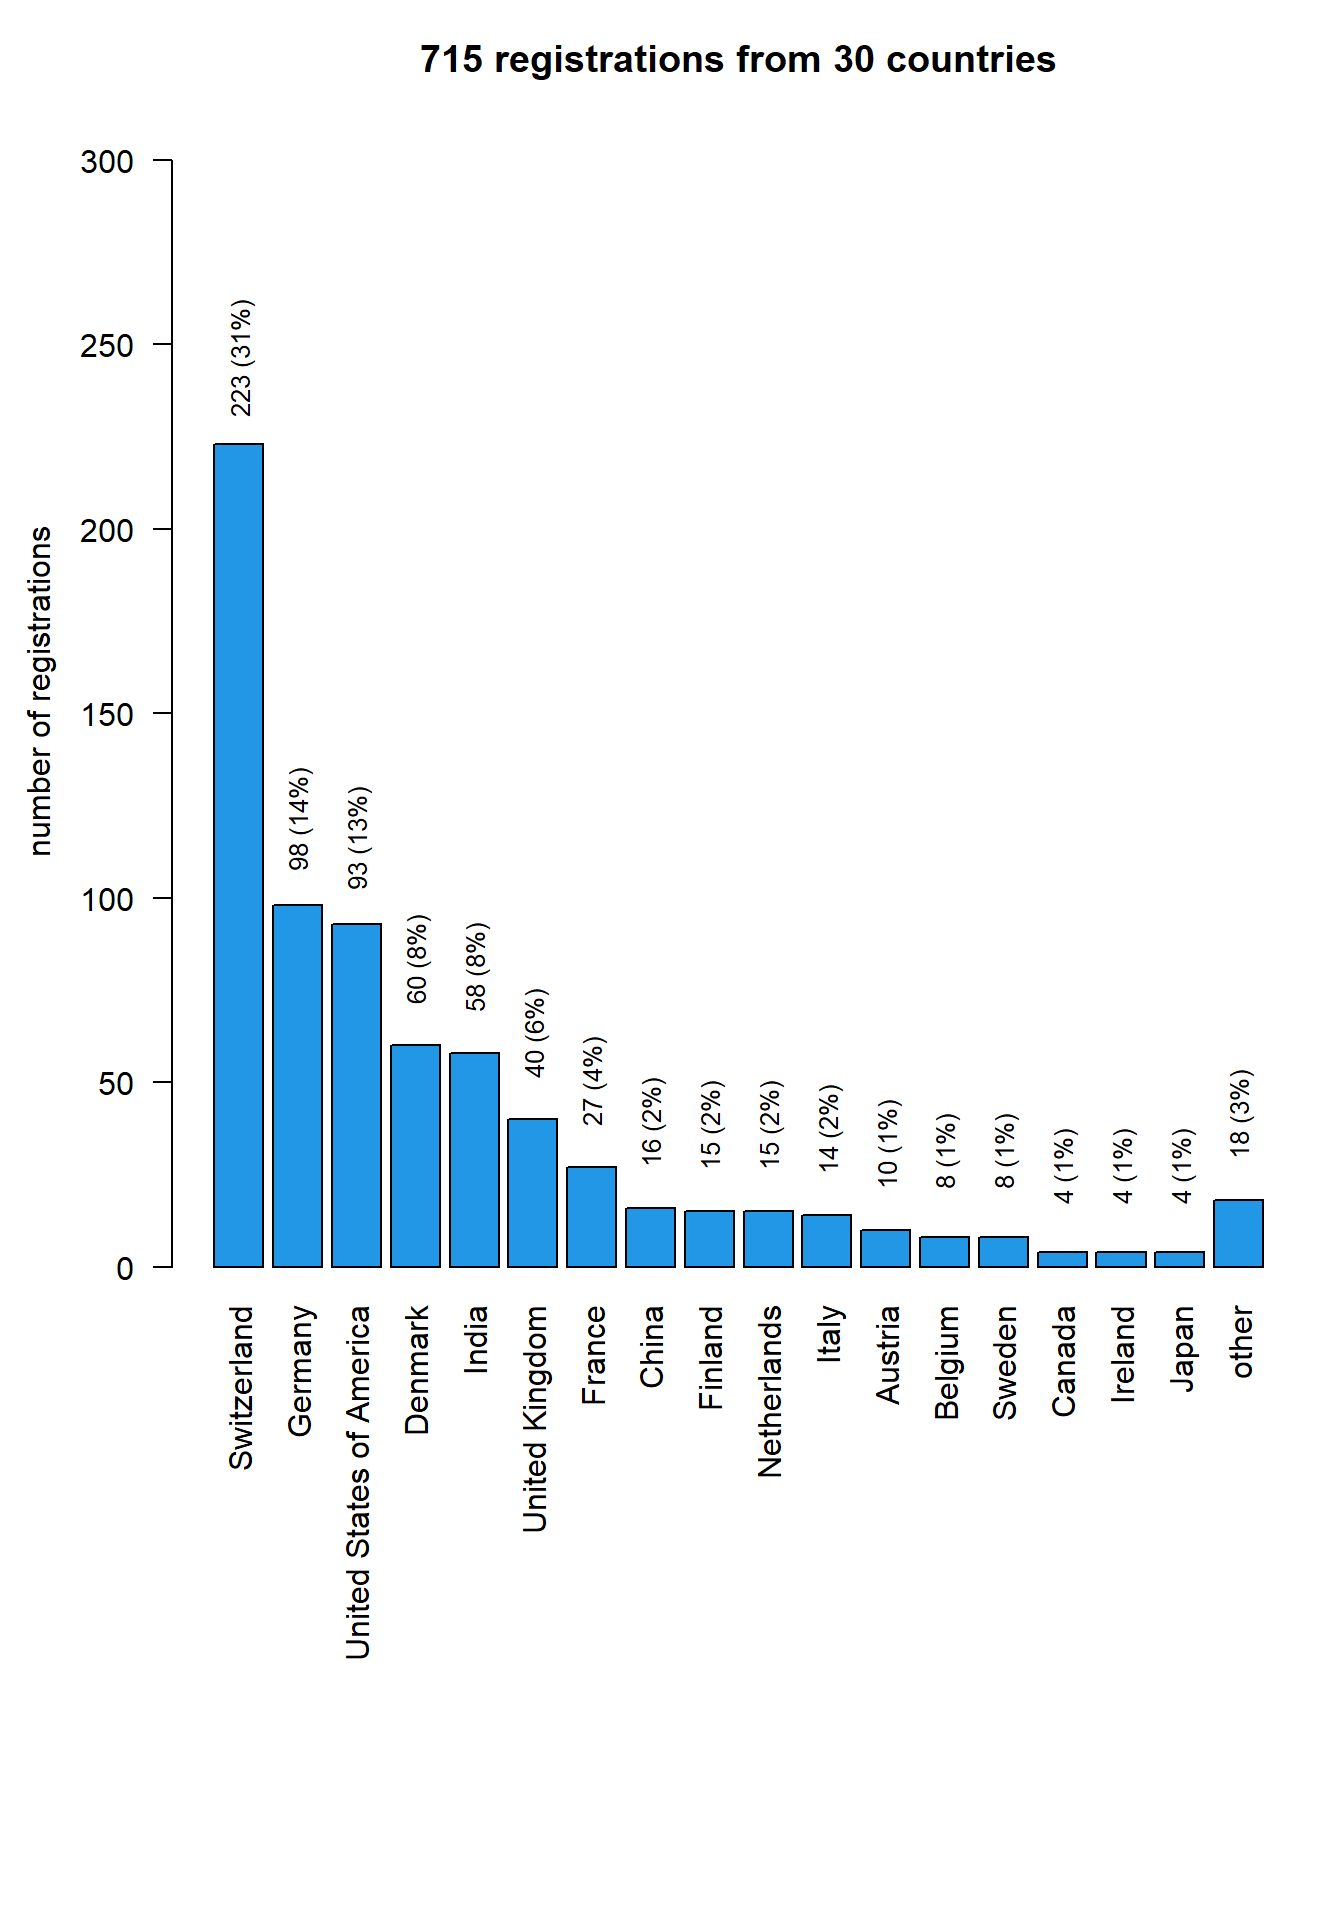
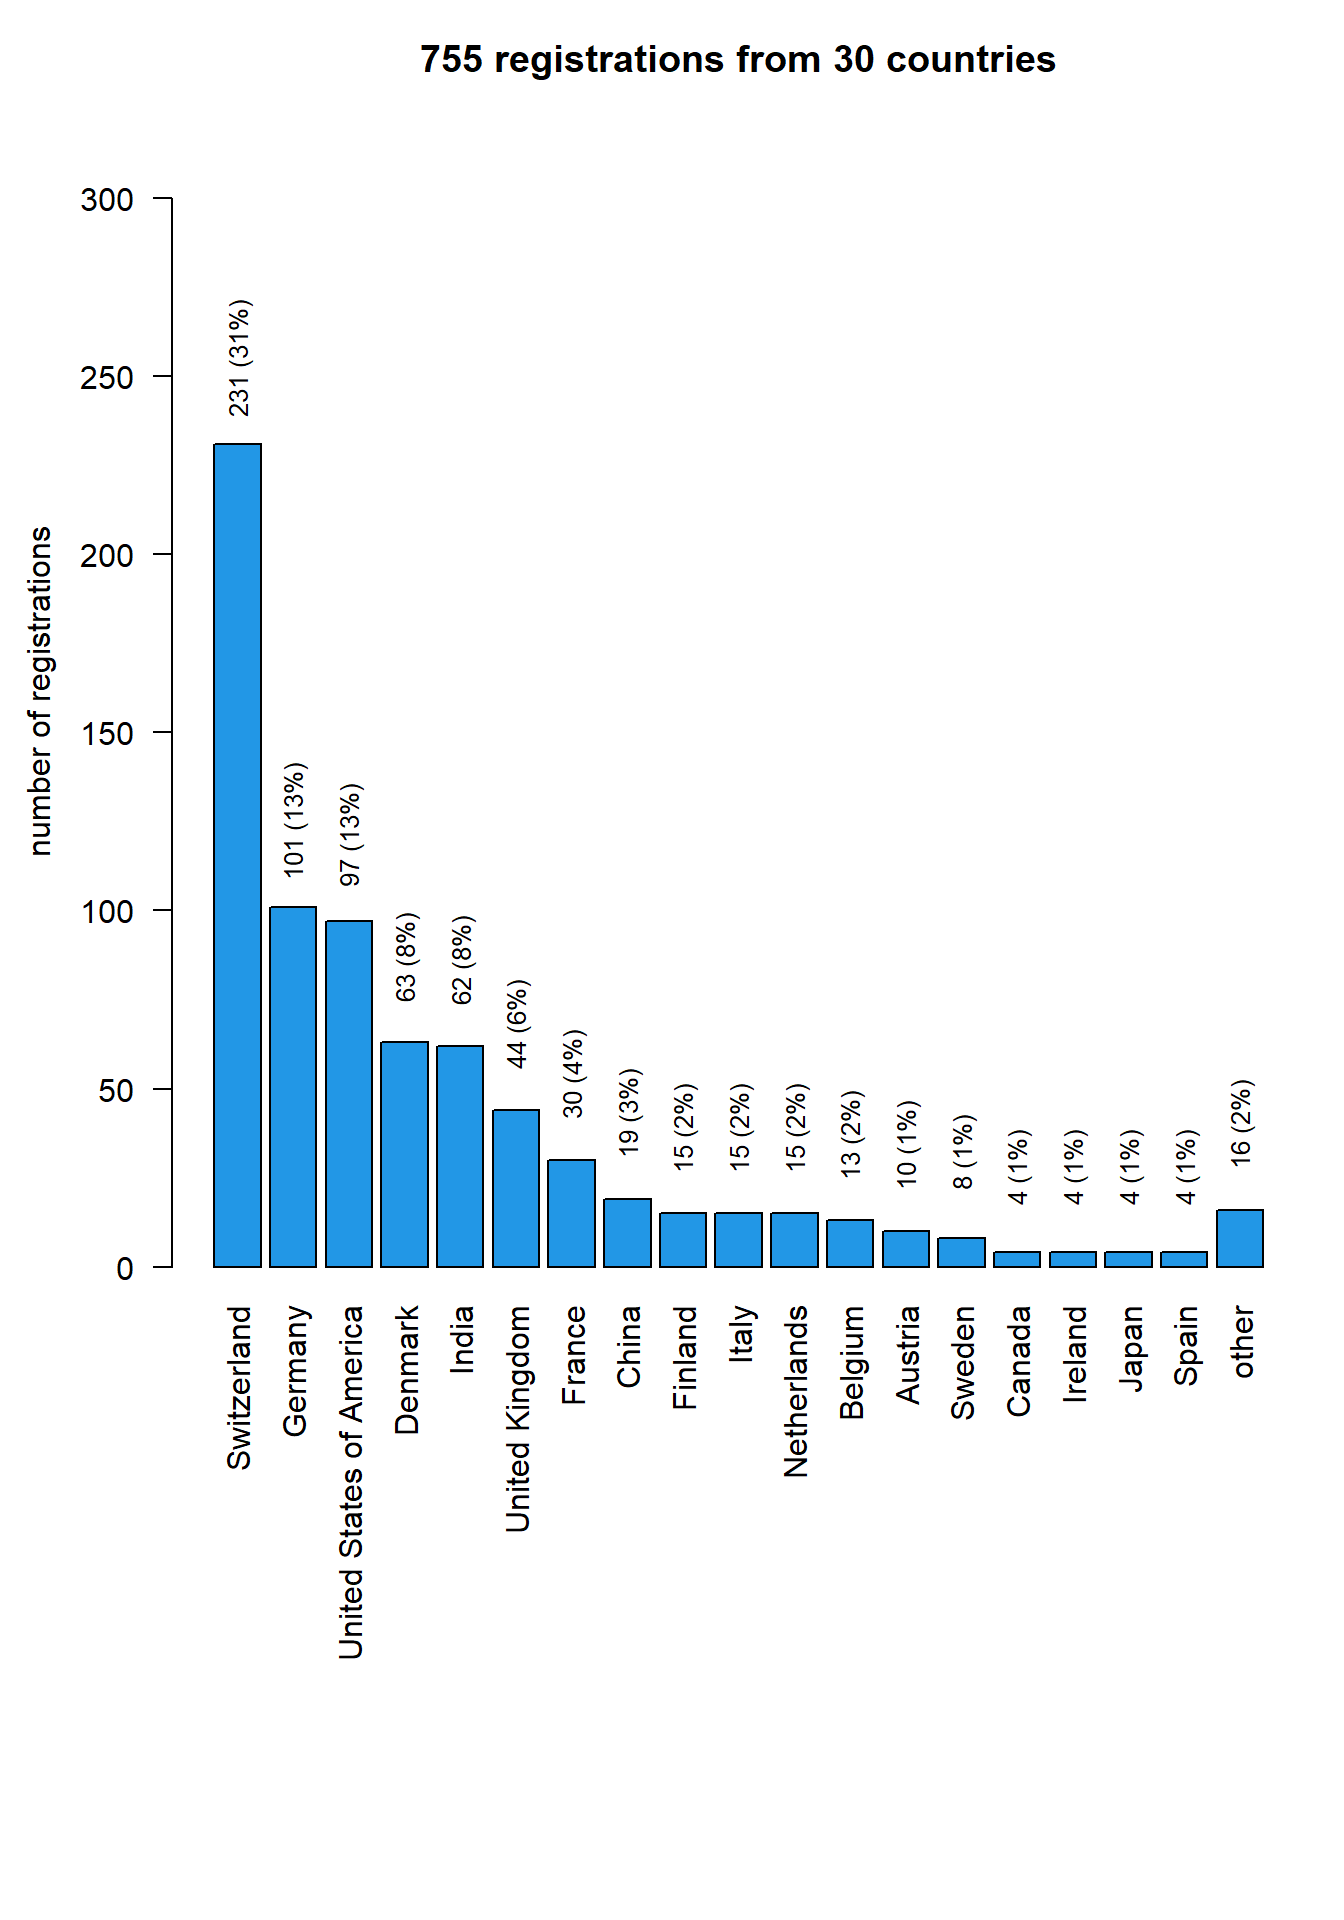
upate

diff --git a/docs/data/2024/analysis2024.html b/docs/data/2024/analysis2024.html
@@ -7,7 +7,7 @@
 <meta name="viewport" content="width=device-width, initial-scale=1.0, user-scalable=yes">
 
 <meta name="author" content="Kaspar Rufibach">
-<meta name="dcterms.date" content="2024-09-04">
+<meta name="dcterms.date" content="2024-09-06">
 
 <title>EFSPI regulatory statistics workshop - EFSPI regulatory statistics workshop 2024: analysis of registrations</title>
 <style>
@@ -206,7 +206,7 @@ ul.task-list li input[type="checkbox"] {
     <div>
     <div class="quarto-title-meta-heading">Published</div>
     <div class="quarto-title-meta-contents">
-      <p class="date">September 4, 2024</p>
+      <p class="date">September 6, 2024</p>
     </div>
   </div>
   
@@ -220,7 +220,7 @@ ul.task-list li input[type="checkbox"] {
 
 <section id="data-status" class="level1">
 <h1>Data status</h1>
-<p>Data as of 2024-09-04 at 14:33:59.</p>
+<p>Data as of 2024-09-06 at 13:33:43.</p>
 </section>
 <section id="registrations-by-type-of-institution" class="level1">
 <h1>Registrations by type of institution</h1>
@@ -344,9 +344,9 @@ ul.task-list li input[type="checkbox"] {
 <tr class="header">
 <th style="text-align: left;"></th>
 <th style="text-align: center;">Boehringer Ingelheim (N=17)</th>
-<th style="text-align: center;">Novartis (N=223)</th>
-<th style="text-align: center;">Roche (N=102)</th>
-<th style="text-align: center;">Total (N=342)</th>
+<th style="text-align: center;">Novartis (N=232)</th>
+<th style="text-align: center;">Roche (N=104)</th>
+<th style="text-align: center;">Total (N=353)</th>
 </tr>
 </thead>
 <tbody>
@@ -360,16 +360,16 @@ ul.task-list li input[type="checkbox"] {
 <tr class="even">
 <td style="text-align: left;">&nbsp;&nbsp;&nbsp;Face-to-face (280 Euro)</td>
 <td style="text-align: center;">4 (23.5%)</td>
-<td style="text-align: center;">102 (45.7%)</td>
-<td style="text-align: center;">67 (65.7%)</td>
-<td style="text-align: center;">173 (50.6%)</td>
+<td style="text-align: center;">102 (44.0%)</td>
+<td style="text-align: center;">66 (63.5%)</td>
+<td style="text-align: center;">172 (48.7%)</td>
 </tr>
 <tr class="odd">
 <td style="text-align: left;">&nbsp;&nbsp;&nbsp;Virtual (70 Euro)</td>
 <td style="text-align: center;">13 (76.5%)</td>
-<td style="text-align: center;">121 (54.3%)</td>
-<td style="text-align: center;">35 (34.3%)</td>
-<td style="text-align: center;">169 (49.4%)</td>
+<td style="text-align: center;">130 (56.0%)</td>
+<td style="text-align: center;">38 (36.5%)</td>
+<td style="text-align: center;">181 (51.3%)</td>
 </tr>
 </tbody>
 </table>
@@ -387,10 +387,10 @@ ul.task-list li input[type="checkbox"] {
 <thead>
 <tr class="header">
 <th style="text-align: left;"></th>
-<th style="text-align: center;">Bayer (N=59)</th>
-<th style="text-align: center;">BMS (N=41)</th>
-<th style="text-align: center;">Novo Nordisk (N=74)</th>
-<th style="text-align: center;">Total (N=174)</th>
+<th style="text-align: center;">Bayer (N=61)</th>
+<th style="text-align: center;">BMS (N=45)</th>
+<th style="text-align: center;">Novo Nordisk (N=75)</th>
+<th style="text-align: center;">Total (N=181)</th>
 </tr>
 </thead>
 <tbody>
@@ -403,17 +403,17 @@ ul.task-list li input[type="checkbox"] {
 </tr>
 <tr class="even">
 <td style="text-align: left;">&nbsp;&nbsp;&nbsp;Face-to-face (280 Euro)</td>
-<td style="text-align: center;">2 (3.4%)</td>
-<td style="text-align: center;">6 (14.6%)</td>
-<td style="text-align: center;">7 (9.5%)</td>
-<td style="text-align: center;">15 (8.6%)</td>
+<td style="text-align: center;">2 (3.3%)</td>
+<td style="text-align: center;">6 (13.3%)</td>
+<td style="text-align: center;">7 (9.3%)</td>
+<td style="text-align: center;">15 (8.3%)</td>
 </tr>
 <tr class="odd">
 <td style="text-align: left;">&nbsp;&nbsp;&nbsp;Virtual (70 Euro)</td>
-<td style="text-align: center;">57 (96.6%)</td>
-<td style="text-align: center;">35 (85.4%)</td>
-<td style="text-align: center;">67 (90.5%)</td>
-<td style="text-align: center;">159 (91.4%)</td>
+<td style="text-align: center;">59 (96.7%)</td>
+<td style="text-align: center;">39 (86.7%)</td>
+<td style="text-align: center;">68 (90.7%)</td>
+<td style="text-align: center;">166 (91.7%)</td>
 </tr>
 </tbody>
 </table>

diff --git a/docs/dialin.html b/docs/dialin.html
@@ -228,7 +228,7 @@ ul.task-list li input[type="checkbox"] {
 <li><font color="red">Please exclusively use the link in the above email and do not join as an attendee - otherwise you will not be in the practice session prior to the TC</font>.</li>
 <li>We would appreciate if you could dial in about 20min early into the practice session, for us to check that everything works. Attendees can dial in but will not be in the webinar before we let them in. You will not need to log out from this session and can just stay in.</li>
 <li>Only panelists will have the option to turn on their camera and microphon. Attendees can only speak when we unmute them (which we do not plan for, we will invite them to ask questions through the chat).</li>
-<li>Status of registrations: Find this <a href="https://efspieurope.github.io/workshop/data/2023/analysis2023.html">here</a>. We have 715 registrations from 30 countries as of now, with 317 face-to-face. 52 colleagues from regulatory agencies registered so far.</li>
+<li>Status of registrations: Find this <a href="https://efspieurope.github.io/workshop/data/2023/analysis2023.html">here</a>. We have 755 registrations from 30 countries as of now, with 320 face-to-face. 57 colleagues from regulatory agencies registered so far.</li>
 <li>The current version of the program is <a href="data/2024/9th EFSPI RegStat Workshop program.pdf">here</a>.</li>
 </ul>
 </section>

diff --git a/docs/dialin_participants.html b/docs/dialin_participants.html
@@ -213,7 +213,7 @@ ul.task-list li input[type="checkbox"] {
 <li><font color="red">Day 1</font>: Use this <a href="https://roche.zoom.us/j/92502410017">zoom link</a> to dial in, with passcode 130923.</li>
 <li><font color="red">Day 2</font>: Use this <a href="https://roche.zoom.us/j/94065878061">zoom link</a> to dial in, with passcode 140923</li>
 <li>Attendees are invited to ask questions through zoom’s Q&amp;A functionality.</li>
-<li>Status of registrations: Find this <a href="https://efspieurope.github.io/workshop/data/2023/analysis2023.html">here</a>. We have 715 registrations from 30 countries as of now, with 317 face-to-face. 52 colleagues from regulatory agencies registered so far.</li>
+<li>Status of registrations: Find this <a href="https://efspieurope.github.io/workshop/data/2023/analysis2023.html">here</a>. We have 755 registrations from 30 countries as of now, with 320 face-to-face. 57 colleagues from regulatory agencies registered so far.</li>
 </ul>
 </section>
 <section id="face-to-face-attendance" class="level1">

diff --git a/docs/feedback.html b/docs/feedback.html
@@ -7,7 +7,7 @@
 <meta name="viewport" content="width=device-width, initial-scale=1.0, user-scalable=yes">
 
 <meta name="author" content="Kaspar Rufibach">
-<meta name="dcterms.date" content="2024-09-04">
+<meta name="dcterms.date" content="2024-09-06">
 
 <title>EFSPI regulatory statistics workshop - EFSPI regulatory statistics workshop: feedback from previous years</title>
 <style>
@@ -194,7 +194,7 @@ ul.task-list li input[type="checkbox"] {
     <div>
     <div class="quarto-title-meta-heading">Published</div>
     <div class="quarto-title-meta-contents">
-      <p class="date">September 4, 2024</p>
+      <p class="date">September 6, 2024</p>
     </div>
   </div>
   

diff --git a/docs/past_scicom.html b/docs/past_scicom.html
@@ -6,7 +6,7 @@
 
 <meta name="viewport" content="width=device-width, initial-scale=1.0, user-scalable=yes">
 
-<meta name="dcterms.date" content="2024-09-04">
+<meta name="dcterms.date" content="2024-09-06">
 
 <title>EFSPI regulatory statistics workshop - Past workshops: analysis of registrations and feedback (for restricted audience only)</title>
 <style>
@@ -186,7 +186,7 @@ ul.task-list li input[type="checkbox"] {
     <div>
     <div class="quarto-title-meta-heading">Published</div>
     <div class="quarto-title-meta-contents">
-      <p class="date">September 4, 2024</p>
+      <p class="date">September 6, 2024</p>
     </div>
   </div>
   
